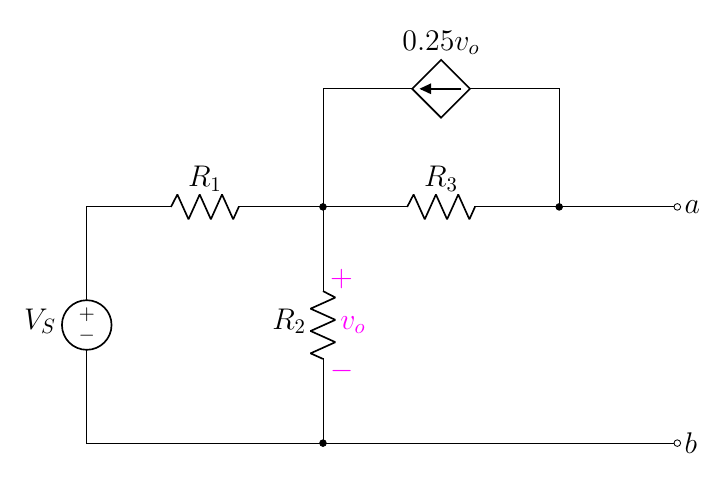
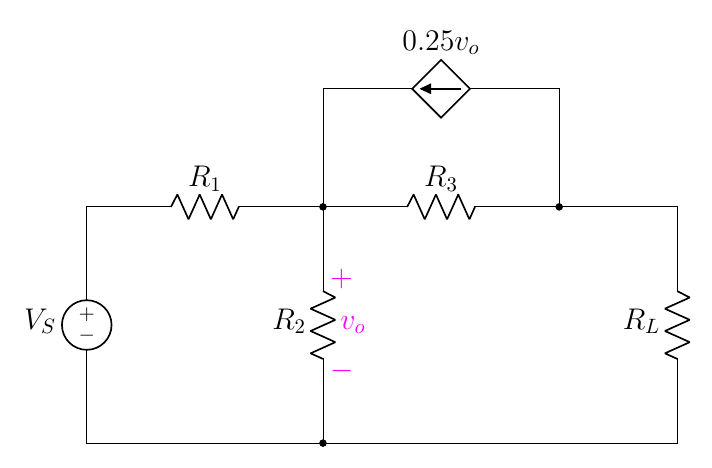
edit 4.53

Changed region(s): [[0.0309, 0.0598, 0.9579, 0.9573], [0.8652, 0.6282, 0.9888, 0.7778]]

diff --git a/1.8 Thevinin and Norton/4.5-4.6 Thevenin Norton/4.53(new).tex b/1.8 Thevinin and Norton/4.5-4.6 Thevenin Norton/4.53(new).tex
@@ -3,8 +3,8 @@
 \begin{circuitikz}[american,cute inductors]
     \input{../../preamble2.tex}
 
-    \draw(0,0) node[anchor=west]{$b$}
-        to[short,o-] ++(-10,0)
+    \draw(0,0) 
+        to[short] ++(-10,0)
         to[V,l=\vsname{}] ++(0,4) 
         to[R,l=\rname{1}] ++(4,0)
         to[R,l_=\rname{2},-*] ++(0,-4) ++(0,4)
@@ -12,7 +12,8 @@
         to[short] ++(0,2)
         to[american controlled current source, l_=$0.25v_o$] ++(-4,0)
         to[short] ++(0,-2) ++(4,0)
-        to[short,-o] ++(2,0) node[anchor=west]{$a$};
+        to[short] ++(2,0)
+        to[R,l_=\rname{L}] (0,0);
 
     %%% find %%%
     % node[anchor=west]{$a$}
